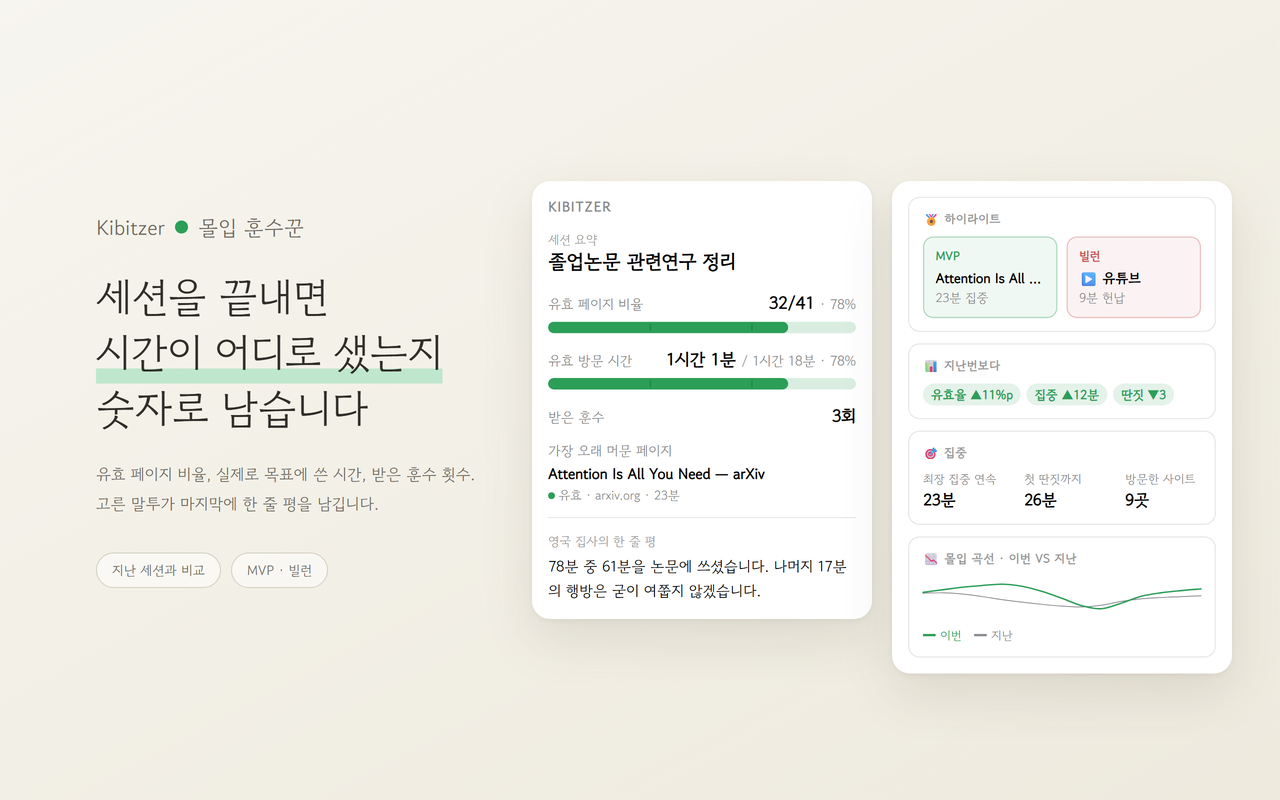
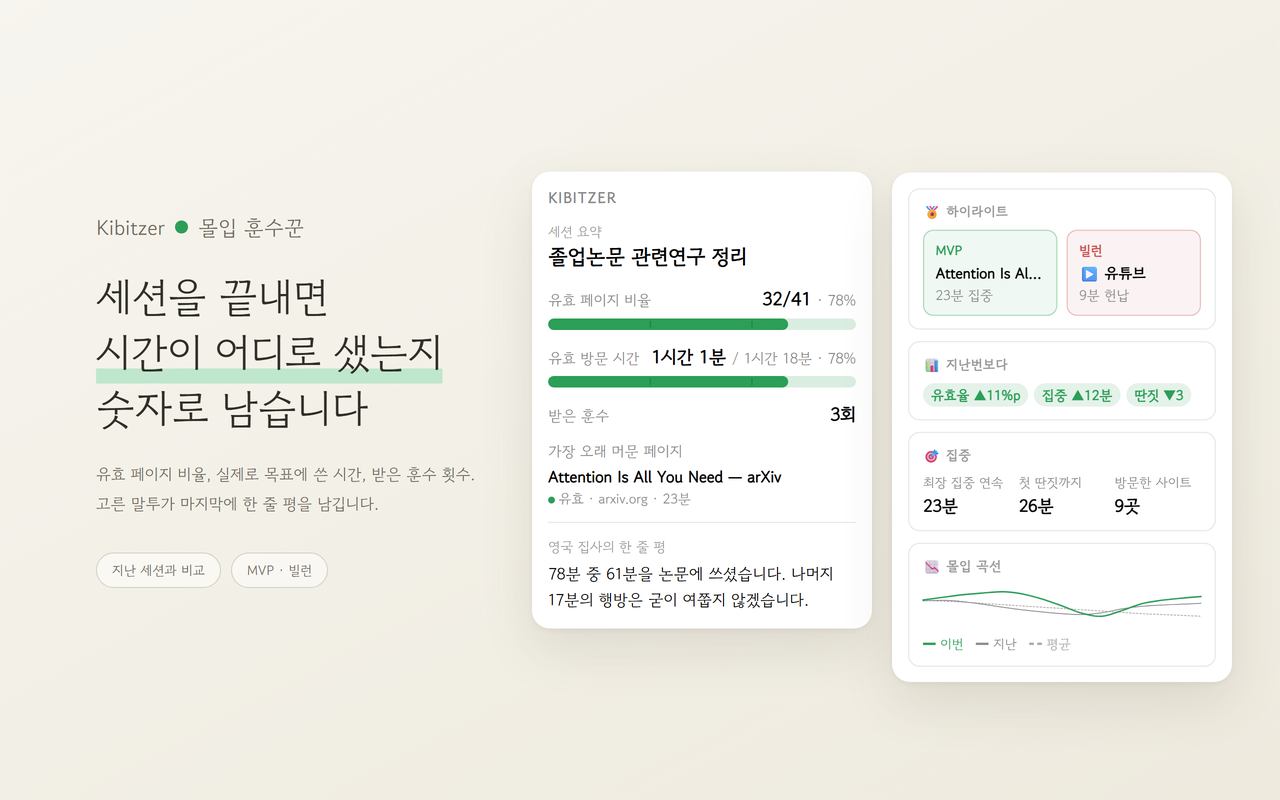
instagram: add average line to scurve card, fix tsundere quote copy

diff --git a/tools/store-shot/scene3-split.html b/tools/store-shot/scene3-split.html
@@ -20,7 +20,7 @@
          쪼그라들어(버그였다 — 처음엔 이래서 패널이 훨씬 작게 나왔다) 안쪽 100% 높이가
          전부 무너진다. .half에 height:100%를 직접 줘서 그 사슬을 끊는다.
 
-         data-fit의 높이(381 / 413)는 insta3.html과 같다 — 같은 popup.html?part=… 조각을
+         data-fit의 높이(398 / 428)는 insta3.html과 같다 — 같은 popup.html?part=… 조각을
          쓰므로 실측값도 그대로 재사용한다.
 
          .half에 좌우 padding을 준 건 여백 때문 — 처음엔 안 줬더니 카피 텍스트와 첫 패널
@@ -33,12 +33,12 @@
 
       /* 두 패널의 세로 위치 -----------------------------------------------------
          왼쪽(.stage-head)은 scenes.css의 .split .stage{align-items:center} 그대로 —
-         381 높이 카드라서 세로 가운데 정렬하면 top≈181px이 나온다. 오른쪽 카드
-         묶음(.stage-cards)은 자연 높이가 더 커서(413) 똑같이 가운데 정렬하면 top이
-         더 위(≈163px)로 올라가 둘의 윗선이 안 맞았다.
+         398 높이 카드라서 세로 가운데 정렬하면 top≈172.6px이 나온다. 오른쪽 카드
+         묶음(.stage-cards)은 자연 높이가 더 커서(428) 똑같이 가운데 정렬하면 top이
+         더 위로 올라가 둘의 윗선이 안 맞았다.
 
          그래서 오른쪽만 정렬 기준을 바꿨다: align-items:flex-start로 스택 위쪽에
-         붙이고, .panel에 margin-top을 줘서 왼쪽 카드의 top(181px, 실측값)만큼
+         붙이고, .panel에 margin-top을 줘서 왼쪽 카드의 top(172.6px, 실측값)만큼
          내렸다 — 결과적으로 두 패널의 윗선이 같아진다.
 
          ↓ 두 패널의 시작 y좌표를 직접 조정하려면 —
@@ -54,13 +54,13 @@
          위 margin-top은 패널 박스를 통째로 아래로 미는 값이라 이 얘기가 아니다(그건
          "패널의 시작 위치"를 옮길 뿐, 박스 안쪽 공간이 아니다). 안쪽 여백을 늘리려면
          바로 아래 .stage-cards .panel의 padding-top/padding-bottom을 쓴다 — 지금
-         28px씩 균등하게 줘서, 카드들의 실제 크기는 그대로 두고 패널 박스만 그만큼
+         9px씩 균등하게 줘서, 카드들의 실제 크기는 그대로 두고 패널 박스만 그만큼
          커졌다. 이 숫자를 키우면 위아래 흰 여백이 똑같이 늘어난다(줄이려면 두 값을
          같이 줄인다 — 다르게 주면 위/아래 여백이 비대칭이 된다).
 
          이 padding은 .panel(clip과 stage 사이에 낀 요소)에 있어서 insta-fit.js의
          availH 계산에서 자동으로 빠진다(파일 위쪽 .clip 관련 주석 참고) — 그래서
-         카드가 넘칠 걱정 없이 안전하게 키울 수 있고, 지금 정도(28px×2=56px)로는
+         카드가 넘칠 걱정 없이 안전하게 키울 수 있고, 지금 정도(9px×2=18px)로는
          남는 여유(availH가 필요한 높이보다 한참 크다)가 넉넉해서 카드 확대 배율도
          전혀 안 바뀐다. 아주 크게(수백 px) 늘리면 그때는 배율이 폭 대신 높이에
          걸리기 시작할 수 있다. */
@@ -70,7 +70,7 @@
          그대로 center인 채 margin-top만 더해져서 가운데 정렬 기준점 자체가 아래로
          밀려버렸다). 클래스를 하나 더 얹어 우선순위를 맞춘다. */
       .twocol .stage-cards { align-items: flex-start; }
-      .stage-cards .panel { margin-top: 181px; padding: 9px 0; }
+      .stage-cards .panel { margin-top: 172.6px; padding: 9px 0; }
     </style>
   </head>
   <body>
@@ -91,14 +91,14 @@
         <div class="twocol">
           <div class="stage stage-head">
             <div class="panel">
-              <div class="clip" data-fit="296x381" data-fit-max="1.8">
+              <div class="clip" data-fit="296x398" data-fit-max="1.8">
                 <iframe class="fit-target" src="popup/popup.html?scene=summary&amp;part=head"></iframe>
               </div>
             </div>
           </div>
           <div class="stage stage-cards">
             <div class="panel">
-              <div class="clip" data-fit="296x413" data-fit-max="1.8">
+              <div class="clip" data-fit="296x428" data-fit-max="1.8">
                 <iframe
                   class="fit-target"
                   src="popup/popup.html?scene=summary&amp;part=cards&amp;cards=highlight,compare-last,focus,scurve"

diff --git a/tools/store-shot/stub.js b/tools/store-shot/stub.js
@@ -109,7 +109,10 @@
       vsLast: { okRatioDelta: 0.11, validMsDelta: 12 * MIN, driftVisitsDelta: -3 },
       vsAvg: { okRatioDelta: 0.06, validMsDelta: 7 * MIN, driftVisitsDelta: -1 },
       lastSCurve: [70, 71, 68, 62, 55, 49, 44, 40, 38, 42, 51, 57, 60, 62, 64],
-      avgSCurve: null,
+      // 값은 0~100 절대 스케일(popup.ts smoothCurvePath). 다른 두 곡선과 같은 자리에서
+      // 출발해(72/70/71) 오른쪽으로 갈수록 단조 하강 — 몰입 곡선 카드의 점선 '평균'선.
+      // null이면 popup.ts의 cardSCurve가 평균선과 그 범례를 통째로 건너뛴다.
+      avgSCurve: [71, 69, 67, 64, 61, 58, 55, 52, 49, 46, 43, 40, 38, 36, 34],
     },
     cards: cardsParam ? cardsParam.split(",") : ["highlight"],
     comment: {
@@ -332,7 +335,18 @@
       setTimeout(function () {
         var more = document.getElementById("sumMore");
         if (more && more.getAttribute("aria-expanded") !== "true") more.click();
+        // 카드는 그 click 안에서 동기적으로 그려지므로 다음 틱이면 이미 DOM에 있다.
+        if (part === "cards") setTimeout(shortenSCurveTitle, 0);
       }, 120);
     }
   });
+
+  // 몰입 곡선 카드 제목에서 " · 이번 vs 지난"을 떼어 "📉 몰입 곡선"만 남긴다. 곡선이 세 개
+  // (이번/지난/평균)가 되면서 제목이 그중 둘만 짚는 게 어긋나기도 하고, 어차피 바로 아래
+  // 범례가 셋을 다 설명한다. 캡처용 문구 손질이라 popup.ts는 그대로 둔다.
+  function shortenSCurveTitle() {
+    var legend = document.querySelector(".scurve-legend");
+    var ch = legend && legend.closest(".card").querySelector(".ch");
+    if (ch) ch.textContent = "📉 몰입 곡선";
+  }
 })();

diff --git a/apps/extension-next/src/lib/personaSampleLines.ts b/apps/extension-next/src/lib/personaSampleLines.ts
@@ -40,7 +40,7 @@ export const PERSONA_SAMPLE_LINES: Record<string, PersonaSampleLines> = {
   },
   tsundere: {
     hover: "그거 목표랑 상관없지 않아? 보고 있기 답답해서 하는 말이야.",
-    picked: "뭐, 알겠어. 딱히 챙겨주려는 거 아니고 그냥 맡은 거야.",
+    picked: "뭐, 알겠어. 딱히 챙겨주려는 건 아니고 그냥 맡은 거야.",
   },
   yandere: {
     hover: "지금 화면에 뜬 걔, 유튜브… 누구야? 나는 처음 보는 애인데.",
